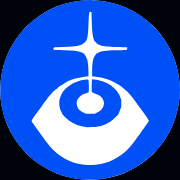
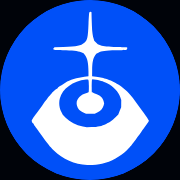
Фавикон без белого ободка

diff --git a/astralis.html b/astralis.html
@@ -14,9 +14,9 @@
 <meta property="og:image:height" content="630">
 <meta name="twitter:card" content="summary_large_image">
 <meta name="twitter:image" content="https://shugadiva.github.io/assets/og-image.png?v=20261001">
-<link rel="icon" href="assets/favicon.svg" type="image/svg+xml">   <!-- знак из Portfolio DS, фрейм Favicon (571:2289) -->
-<link rel="icon" href="assets/favicon-32.png" sizes="32x32" type="image/png">
-<link rel="apple-touch-icon" href="assets/apple-touch-icon.png">
+<link rel="icon" href="assets/favicon.svg?v=2" type="image/svg+xml">   <!-- знак из Portfolio DS, фрейм Favicon (571:2289) -->
+<link rel="icon" href="assets/favicon-32.png?v=2" sizes="32x32" type="image/png">
+<link rel="apple-touch-icon" href="assets/apple-touch-icon.png?v=2">
 <link rel="preconnect" href="https://fonts.googleapis.com">
 <link rel="preconnect" href="https://fonts.gstatic.com" crossorigin>
 <link href="https://fonts.googleapis.com/css2?family=Manrope:wght@500;600;700&display=swap" rel="stylesheet">

diff --git a/blokb.html b/blokb.html
@@ -14,9 +14,9 @@
 <meta property="og:image:height" content="630">
 <meta name="twitter:card" content="summary_large_image">
 <meta name="twitter:image" content="https://shugadiva.github.io/assets/og-image.png?v=20261001">
-<link rel="icon" href="assets/favicon.svg" type="image/svg+xml">   <!-- знак из Portfolio DS, фрейм Favicon (571:2289) -->
-<link rel="icon" href="assets/favicon-32.png" sizes="32x32" type="image/png">
-<link rel="apple-touch-icon" href="assets/apple-touch-icon.png">
+<link rel="icon" href="assets/favicon.svg?v=2" type="image/svg+xml">   <!-- знак из Portfolio DS, фрейм Favicon (571:2289) -->
+<link rel="icon" href="assets/favicon-32.png?v=2" sizes="32x32" type="image/png">
+<link rel="apple-touch-icon" href="assets/apple-touch-icon.png?v=2">
 <link rel="preconnect" href="https://fonts.googleapis.com">
 <link rel="preconnect" href="https://fonts.gstatic.com" crossorigin>
 <link href="https://fonts.googleapis.com/css2?family=Manrope:wght@500;600;700&display=swap" rel="stylesheet">

diff --git a/index.html b/index.html
@@ -14,9 +14,9 @@
 <meta property="og:image:height" content="630">
 <meta name="twitter:card" content="summary_large_image">
 <meta name="twitter:image" content="https://shugadiva.github.io/assets/og-image.png?v=20261001">
-<link rel="icon" href="assets/favicon.svg" type="image/svg+xml">   <!-- знак из Portfolio DS, фрейм Favicon (571:2289) -->
-<link rel="icon" href="assets/favicon-32.png" sizes="32x32" type="image/png">
-<link rel="apple-touch-icon" href="assets/apple-touch-icon.png">
+<link rel="icon" href="assets/favicon.svg?v=2" type="image/svg+xml">   <!-- знак из Portfolio DS, фрейм Favicon (571:2289) -->
+<link rel="icon" href="assets/favicon-32.png?v=2" sizes="32x32" type="image/png">
+<link rel="apple-touch-icon" href="assets/apple-touch-icon.png?v=2">
 <link rel="preconnect" href="https://fonts.googleapis.com">
 <link rel="preconnect" href="https://fonts.gstatic.com" crossorigin>
 <link href="https://fonts.googleapis.com/css2?family=Manrope:wght@500;600;700&display=swap" rel="stylesheet">

diff --git a/lookmerce.html b/lookmerce.html
@@ -14,9 +14,9 @@
 <meta property="og:image:height" content="630">
 <meta name="twitter:card" content="summary_large_image">
 <meta name="twitter:image" content="https://shugadiva.github.io/assets/og-image.png?v=20261001">
-<link rel="icon" href="assets/favicon.svg" type="image/svg+xml">   <!-- знак из Portfolio DS, фрейм Favicon (571:2289) -->
-<link rel="icon" href="assets/favicon-32.png" sizes="32x32" type="image/png">
-<link rel="apple-touch-icon" href="assets/apple-touch-icon.png">
+<link rel="icon" href="assets/favicon.svg?v=2" type="image/svg+xml">   <!-- знак из Portfolio DS, фрейм Favicon (571:2289) -->
+<link rel="icon" href="assets/favicon-32.png?v=2" sizes="32x32" type="image/png">
+<link rel="apple-touch-icon" href="assets/apple-touch-icon.png?v=2">
 <link rel="preconnect" href="https://fonts.googleapis.com">
 <link rel="preconnect" href="https://fonts.gstatic.com" crossorigin>
 <link href="https://fonts.googleapis.com/css2?family=Manrope:wght@500;600;700&display=swap" rel="stylesheet">

diff --git a/northstar.html b/northstar.html
@@ -14,9 +14,9 @@
 <meta property="og:image:height" content="630">
 <meta name="twitter:card" content="summary_large_image">
 <meta name="twitter:image" content="https://shugadiva.github.io/assets/og-image.png?v=20261001">
-<link rel="icon" href="assets/favicon.svg" type="image/svg+xml">   <!-- знак из Portfolio DS, фрейм Favicon (571:2289) -->
-<link rel="icon" href="assets/favicon-32.png" sizes="32x32" type="image/png">
-<link rel="apple-touch-icon" href="assets/apple-touch-icon.png">
+<link rel="icon" href="assets/favicon.svg?v=2" type="image/svg+xml">   <!-- знак из Portfolio DS, фрейм Favicon (571:2289) -->
+<link rel="icon" href="assets/favicon-32.png?v=2" sizes="32x32" type="image/png">
+<link rel="apple-touch-icon" href="assets/apple-touch-icon.png?v=2">
 <link rel="preconnect" href="https://fonts.googleapis.com">
 <link rel="preconnect" href="https://fonts.gstatic.com" crossorigin>
 <link href="https://fonts.googleapis.com/css2?family=Manrope:wght@500;600;700&display=swap" rel="stylesheet">
